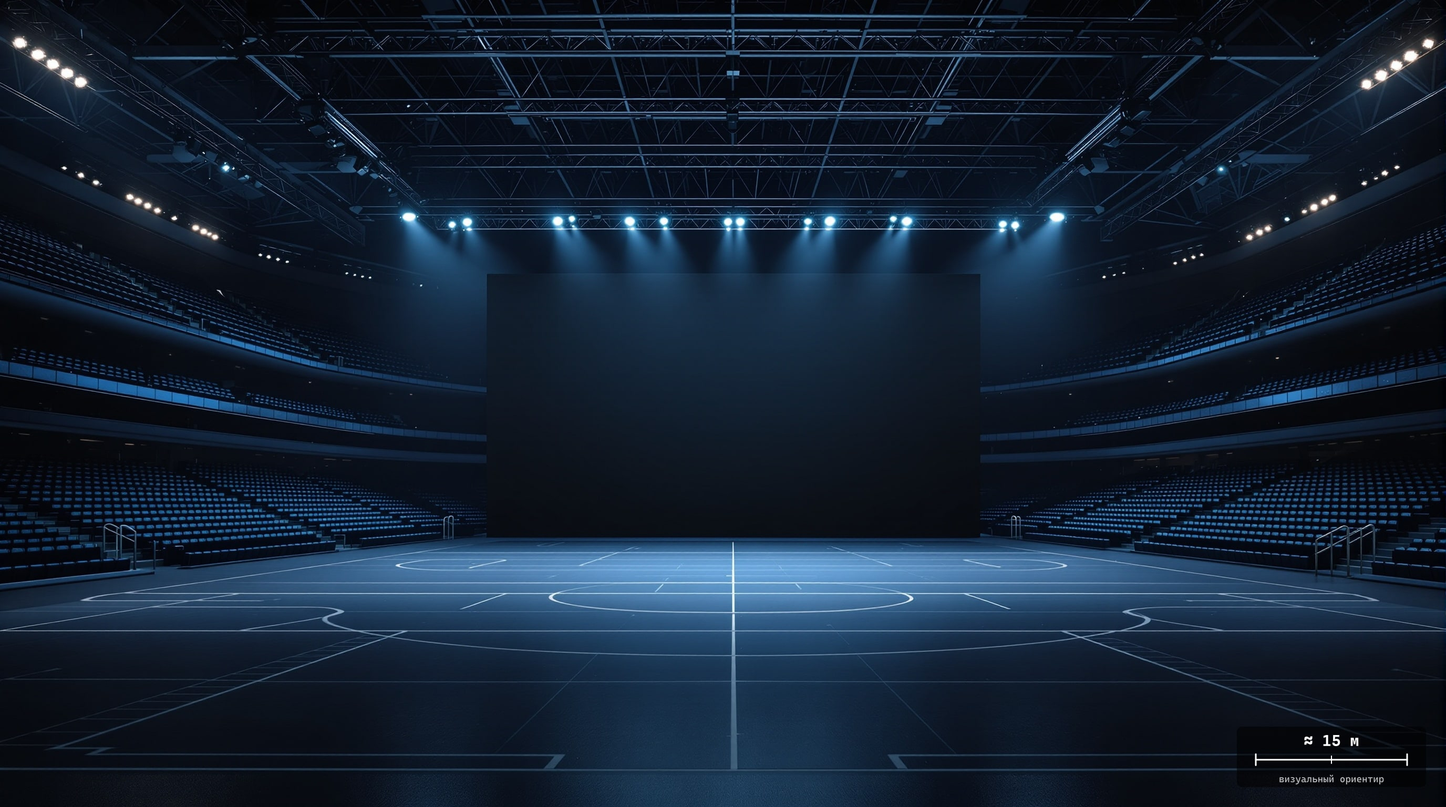
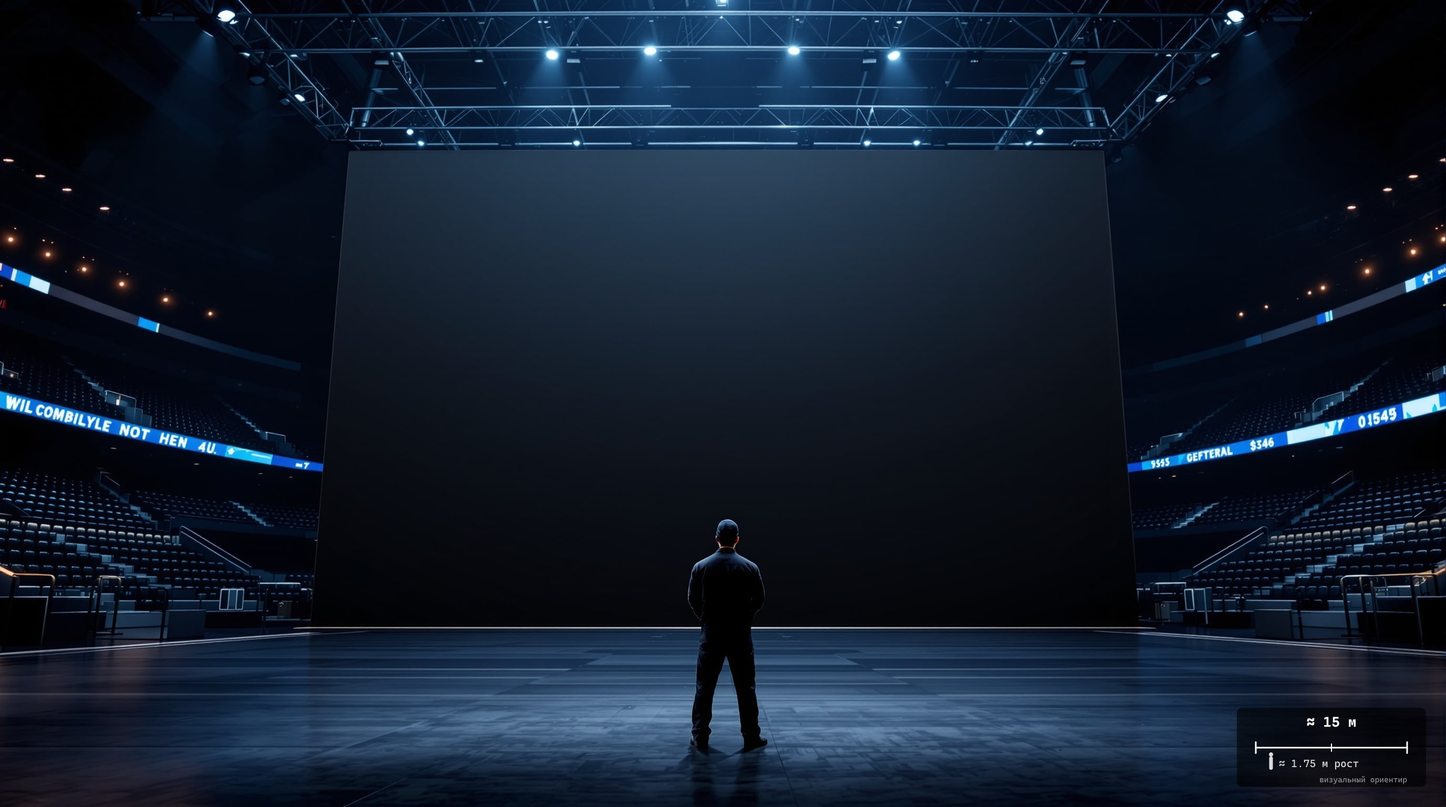
feat(visual-led): auto-calibrate scene from preset, add in-frame human ref
Two complementary scale references on each preset hero:
  1. AI-rendered human inside the scene (perspective-aware visual
     ground truth — user sees how a real 1.75 m person looks against
     the venue).
  2. Composited badge in the bottom-right with a horizontal "≈ N м" bar
     plus a small human icon labeled "≈ 1.75 м рост" (deterministic
     pixel geometry — used for auto-calibration).

The badge bar is exactly 288 px wide on every 2752×1536 hero, so
`pxPerMeter = 288 / referenceScaleMeters` is known statically and
encoded as `defaultCalibration` on each preset (1, 2, 5, 10, 15 m
respectively). The reducer's `preset/apply` seeds the active scene's
`scaleCalib` from this when it's still null, so users opening a preset
can drop screens with real metric sizes immediately — the manual scale
tool stays available but isn't required.

A pre-existing manual calibration is preserved across preset switches
so we don't silently re-scale the user's work mid-session.

diff --git a/src/lib/visualLed/presets.ts b/src/lib/visualLed/presets.ts
@@ -9,6 +9,23 @@
 // Replace `basePrice` / `pricePerM2` / `eventMultiplier` per preset before
 // the public launch. Order of magnitude is intentionally believable so
 // the UI doesn't look broken in screenshots.
+//
+// `defaultCalibration` numbers come from `scripts/generate-presets.mjs`:
+// every hero is rendered at 2752×1536 with a "≈ N м" badge whose bar is
+// exactly 288 px wide. So pxPerMeter = 288 / referenceScaleMeters. The
+// reducer auto-applies this on `preset/apply` so users skip the manual
+// scale tool unless they switch backgrounds.
+
+import type { ScaleCalibration } from './types';
+
+const BADGE_BAR_PX_AT_2752W = 288;
+function calibrationFromBadge(meters: number): ScaleCalibration {
+  return {
+    realLength: meters,
+    pxLength: BADGE_BAR_PX_AT_2752W,
+    pxPerMeter: BADGE_BAR_PX_AT_2752W / meters,
+  };
+}
 
 export type VisualLedPresetSlug =
   | 'compact'
@@ -51,6 +68,13 @@ export interface VisualLedPreset {
   /** Defaults for the visualizer when this preset is applied. */
   defaultPitch: string;
   defaultCabinetSideM: number;
+  /**
+   * Auto-applied scale calibration so the user can draw screens with
+   * real metric sizes immediately, without using the scale tool. Derived
+   * from the composited badge in the hero (see comment at top of file).
+   * `null` means "no auto-calibration" — the user must manually calibrate.
+   */
+  defaultCalibration: ScaleCalibration | null;
 }
 
 export const VISUAL_LED_PRESETS = [
@@ -75,6 +99,7 @@ export const VISUAL_LED_PRESETS = [
     background: '/visual-led-presets/compact-presentation.jpg',
     defaultPitch: '2.6',
     defaultCabinetSideM: 0.5,
+    defaultCalibration: calibrationFromBadge(1),
   },
   {
     slug: 'corporate',
@@ -97,6 +122,7 @@ export const VISUAL_LED_PRESETS = [
     background: '/visual-led-presets/corporate-conference.jpg',
     defaultPitch: '2.6',
     defaultCabinetSideM: 0.5,
+    defaultCalibration: calibrationFromBadge(2),
   },
   {
     slug: 'concert',
@@ -119,6 +145,7 @@ export const VISUAL_LED_PRESETS = [
     background: '/visual-led-presets/concert-stage.jpg',
     defaultPitch: '3.9',
     defaultCabinetSideM: 0.5,
+    defaultCalibration: calibrationFromBadge(5),
   },
   {
     slug: 'festival',
@@ -141,6 +168,7 @@ export const VISUAL_LED_PRESETS = [
     background: '/visual-led-presets/festival-outdoor.jpg',
     defaultPitch: '3.9',
     defaultCabinetSideM: 0.5,
+    defaultCalibration: calibrationFromBadge(10),
   },
   {
     slug: 'flagship',
@@ -163,8 +191,9 @@ export const VISUAL_LED_PRESETS = [
     background: '/visual-led-presets/flagship-arena.jpg',
     defaultPitch: '5.9',
     defaultCabinetSideM: 0.5,
+    defaultCalibration: calibrationFromBadge(15),
   },
-] as const satisfies readonly VisualLedPreset[];
+] satisfies readonly VisualLedPreset[];
 
 export const getPreset = (slug: string | null | undefined): VisualLedPreset | null => {
   if (!slug) return null;

diff --git a/src/components/visualLed/state/reducer.test.ts b/src/components/visualLed/state/reducer.test.ts
@@ -256,6 +256,42 @@ describe('visualLedReducer', () => {
     expect(scene.activeBackgroundId).toBe(scene.backgrounds[0].id);
     expect(scene.backgrounds[0].src).toBe('/visual-led-presets/concert-stage.jpg');
     expect(scene.backgrounds[0].name).toBe('Концерт / шоу');
+    // Auto-calibration: concert preset seeds scaleCalib from its badge
+    // (5m bar = 288px → ~57.6 px/m). The user can place screens with real
+    // metric sizes immediately, no scale tool needed.
+    expect(scene.scaleCalib).not.toBeNull();
+    expect(scene.scaleCalib?.realLength).toBe(5);
+    expect(scene.scaleCalib?.pxPerMeter).toBeCloseTo(57.6, 1);
+  });
+
+  it('preset/apply: keeps an existing user calibration instead of overriding it', () => {
+    const state = makeState();
+    // Pretend the user already calibrated by hand before picking a preset.
+    const manualCalib = { realLength: 3, pxLength: 200, pxPerMeter: 200 / 3 };
+    const calibrated = visualLedReducer(state, {
+      type: 'scale/set',
+      payload: manualCalib,
+    });
+    const next = visualLedReducer(calibrated, {
+      type: 'preset/apply',
+      payload: {
+        slug: 'concert',
+        backgroundUrl: '/visual-led-presets/concert-stage.jpg',
+        backgroundName: 'Концерт',
+      },
+    });
+    const scene = next.scenes.find((s) => s.id === next.activeSceneId)!;
+    expect(scene.scaleCalib).toEqual(manualCalib);
+  });
+
+  it('preset/apply: leaves scaleCalib null for "Свой вариант" (no background)', () => {
+    const next = visualLedReducer(makeState(), {
+      type: 'preset/apply',
+      payload: { slug: '__custom__', backgroundUrl: '', backgroundName: '' },
+    });
+    const scene = next.scenes.find((s) => s.id === next.activeSceneId)!;
+    expect(scene.scaleCalib).toBeNull();
+    expect(scene.backgrounds).toHaveLength(0);
   });
 
   it('preset/clear: drops the slug but keeps backgrounds', () => {

diff --git a/src/components/visualLed/state/reducer.ts b/src/components/visualLed/state/reducer.ts
@@ -1,4 +1,5 @@
 import type { BackgroundAsset, Scene } from '../../../lib/visualLed';
+import { getPreset } from '../../../lib/visualLed/presets';
 import { createSceneData, uid } from './initialState';
 import type { Action, UiFlags, VisualLedState } from './types';
 
@@ -297,14 +298,21 @@ export function visualLedReducer(state: VisualLedState, action: Action): VisualL
         height: 1080,
         uploadStatus: 'uploaded',
       };
+      // Auto-seed scaleCalib from the preset's known badge geometry so the
+      // user can drop screens in real metric sizes without touching the
+      // scale tool. We only override when the scene is uncalibrated —
+      // otherwise the user's manual calibration wins (preset switch
+      // shouldn't silently re-scale their work).
+      const preset = getPreset(action.payload.slug);
       return {
         ...state,
         selectedPresetSlug: action.payload.slug,
         scenes: mapActiveScene(state, (scene) => ({
           ...scene,
           backgrounds: [...scene.backgrounds, bg],
-          // Make the new preset background the active one immediately.
           activeBackgroundId: bg.id,
+          scaleCalib:
+            scene.scaleCalib ?? preset?.defaultCalibration ?? null,
         })),
       };
     }
